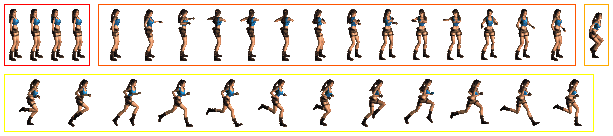
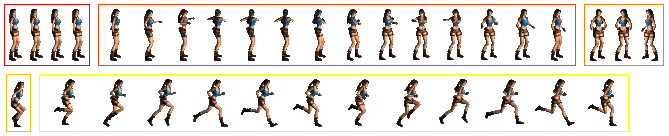
turn animation

diff --git a/SpriteSheet.java b/SpriteSheet.java
@@ -5,23 +5,13 @@ import java.util.ArrayList;
 
 public class SpriteSheet {
 
-  public final List<Box> boxes;
-  private List<BufferedImage> contents;
+  public final Box[] boxes;
 
-  public SpriteSheet(List<Box> boxes) {
+  public SpriteSheet(Box[] boxes) {
     this.boxes = boxes;
   }
 
-  public List<BufferedImage> contents() {
-    if (this.contents == null) {
-      this.contents = new ArrayList<>();
-      for (Box box : boxes) {
-        contents.add(box.content);
-      }
-    }
-    return this.contents;
-  }
-
+  private static final Box[] BOX_ARRAY = new Box[0];
   public static SpriteSheet load(BufferedImage in) {
     List<Box> boxes = new ArrayList<>();
     for (int y = 0; y < in.getHeight(); y++) {
@@ -37,7 +27,7 @@ public class SpriteSheet {
         }
       }
     }
-    return new SpriteSheet(boxes);
+    return new SpriteSheet(boxes.toArray(BOX_ARRAY));
   }
 
   static Box findBox(BufferedImage in, int x, int y) {

diff --git a/Show.java b/Show.java
@@ -40,7 +40,8 @@ public class Show {
           synchronized(anims) {
             for (Animation anim : anims) {
               BufferedImage f = anim.tFrame(t);
-              drawFlippedCentered(g, f, (x+=50), 100);
+              boolean flip = (t / anim.tLength()) % 2 == 1;
+              drawCentered(g, f, (x+=50), 100, flip);
             }
           }
         }
@@ -53,13 +54,18 @@ public class Show {
         @Override
         public void actionPerformed(ActionEvent e) {
           t++;
-            panel.repaint();
+          panel.repaint();
         }
       }).start();
     }
     synchronized(anims) {
       anims.add(anim);
     }
+  }
+
+  private static void drawCentered(Graphics g, BufferedImage b, int x, int y, boolean flip) {
+    if (flip) drawFlippedCentered(g, b, x, y);
+    else drawCentered(g, b, x, y);
   }
 
   private static void drawCentered(Graphics g, BufferedImage b, int x, int y) {

diff --git a/Main.java b/Main.java
@@ -22,8 +22,9 @@ public class Main {
     for (SpriteSheet.Box b : spriteSheet.boxes) {
       anims.add(new Animation(b.splitIntoFrames(), 2));
     }
-    anims.add(Animation.concat(anims.get(0), anims.get(1)));
-    anims.add(Animation.concat(anims.get(0), anims.get(2), anims.get(3), anims.get(2)));
+    Animation[] a = anims.toArray(new Animation[0]);
+    anims.add(Animation.concat(a[0], a[0], a[1], a[0], a[3], a[4], a[4], a[3], a[0], a[2]));
+    //anims.add(Animation.concat(anims.get(0), anims.get(2), anims.get(3), anims.get(2)));
     for (Animation anim : anims) {
       Show.show(anim);
     }

diff --git a/Animation.java b/Animation.java
@@ -27,6 +27,10 @@ public class Animation {
     return frames.length;
   }
 
+  public int tLength() {
+    return frames.length * timePerFrame;
+  }
+
   public static Animation concat(Animation... anims) {
     int length = 0;
     for (Animation anim : anims) {
